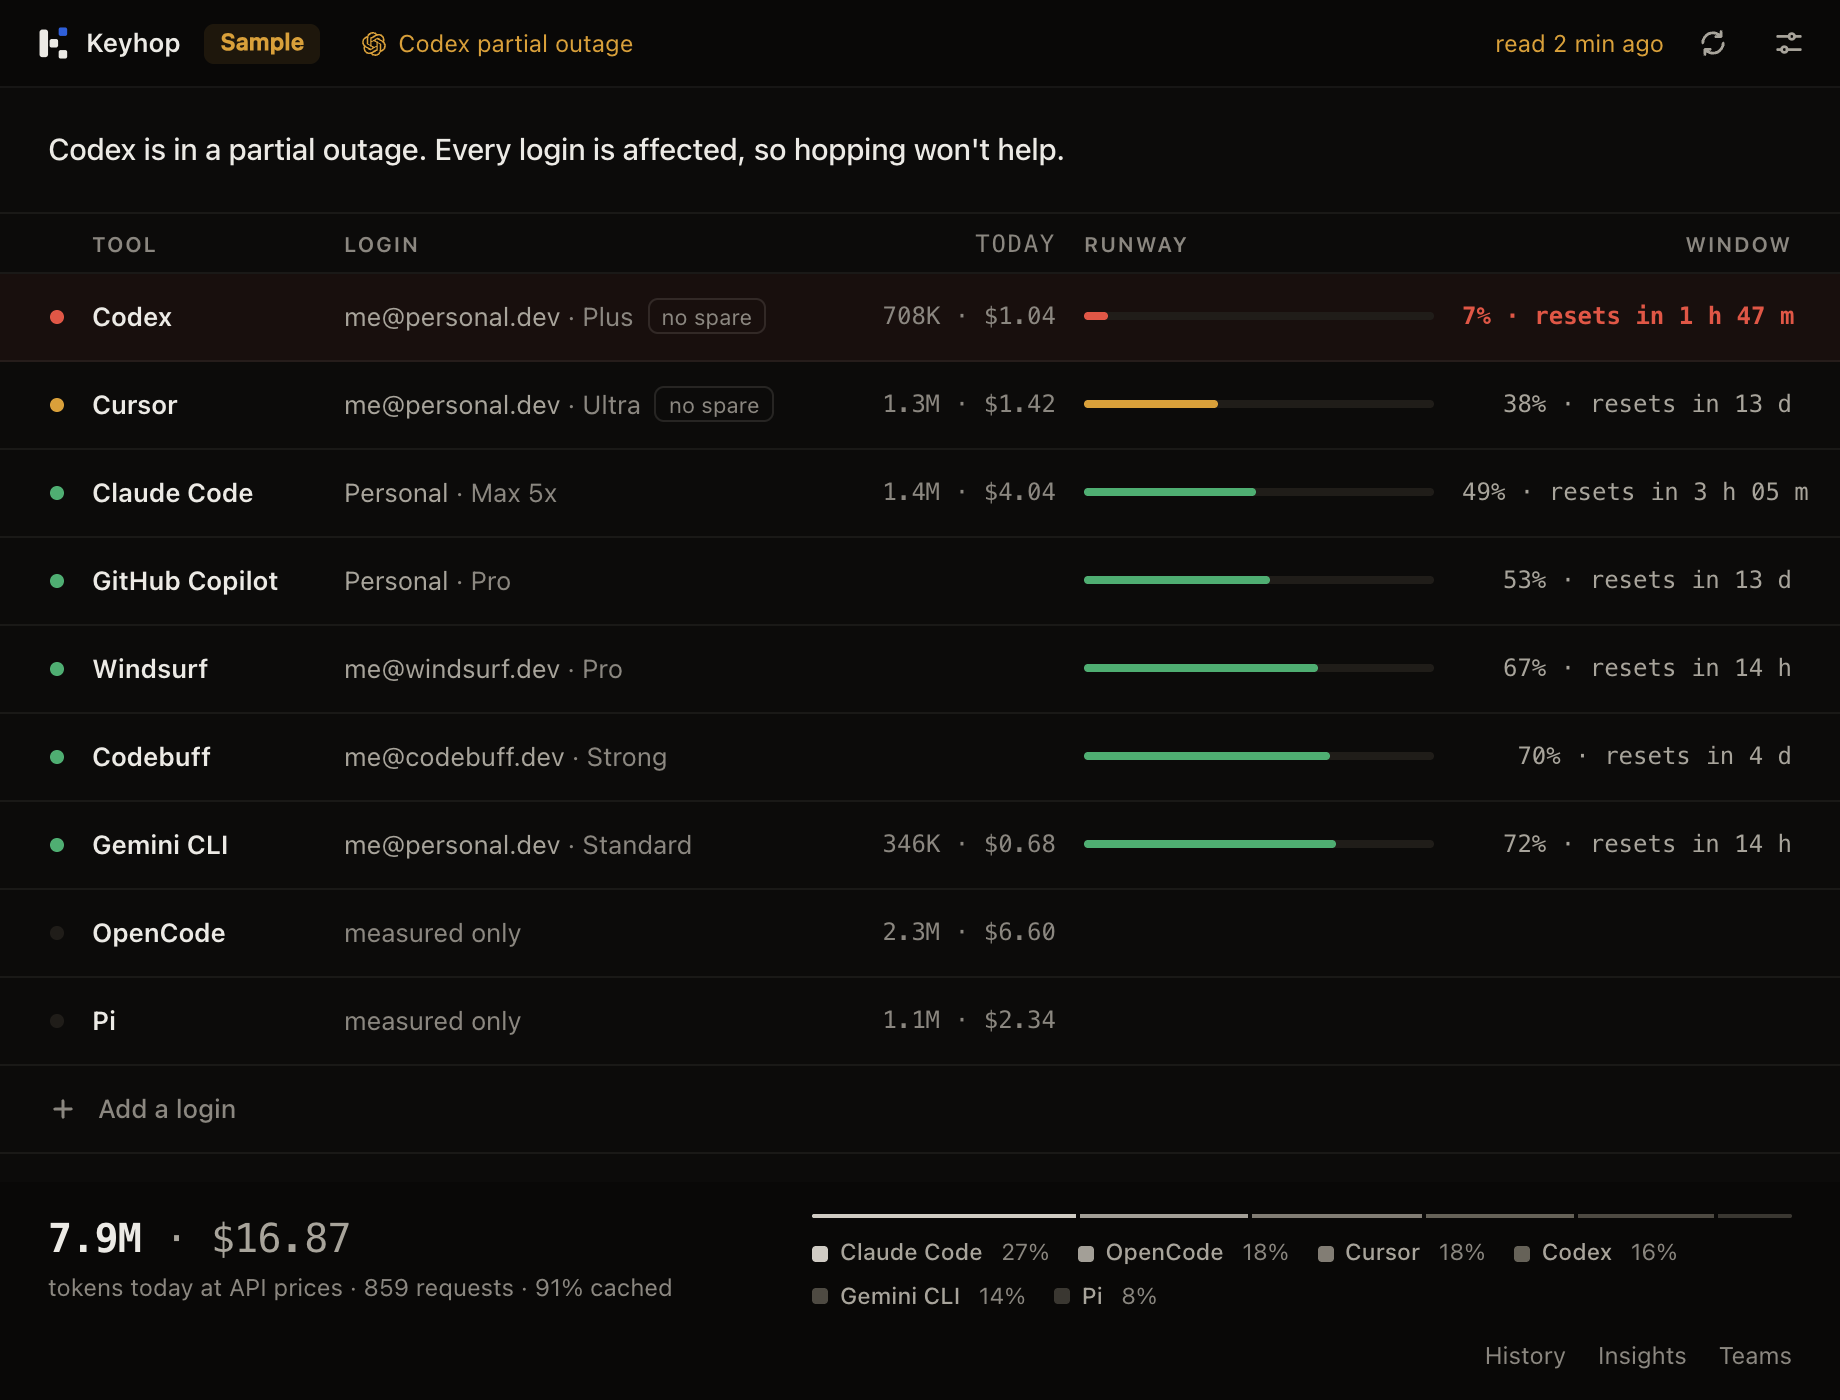
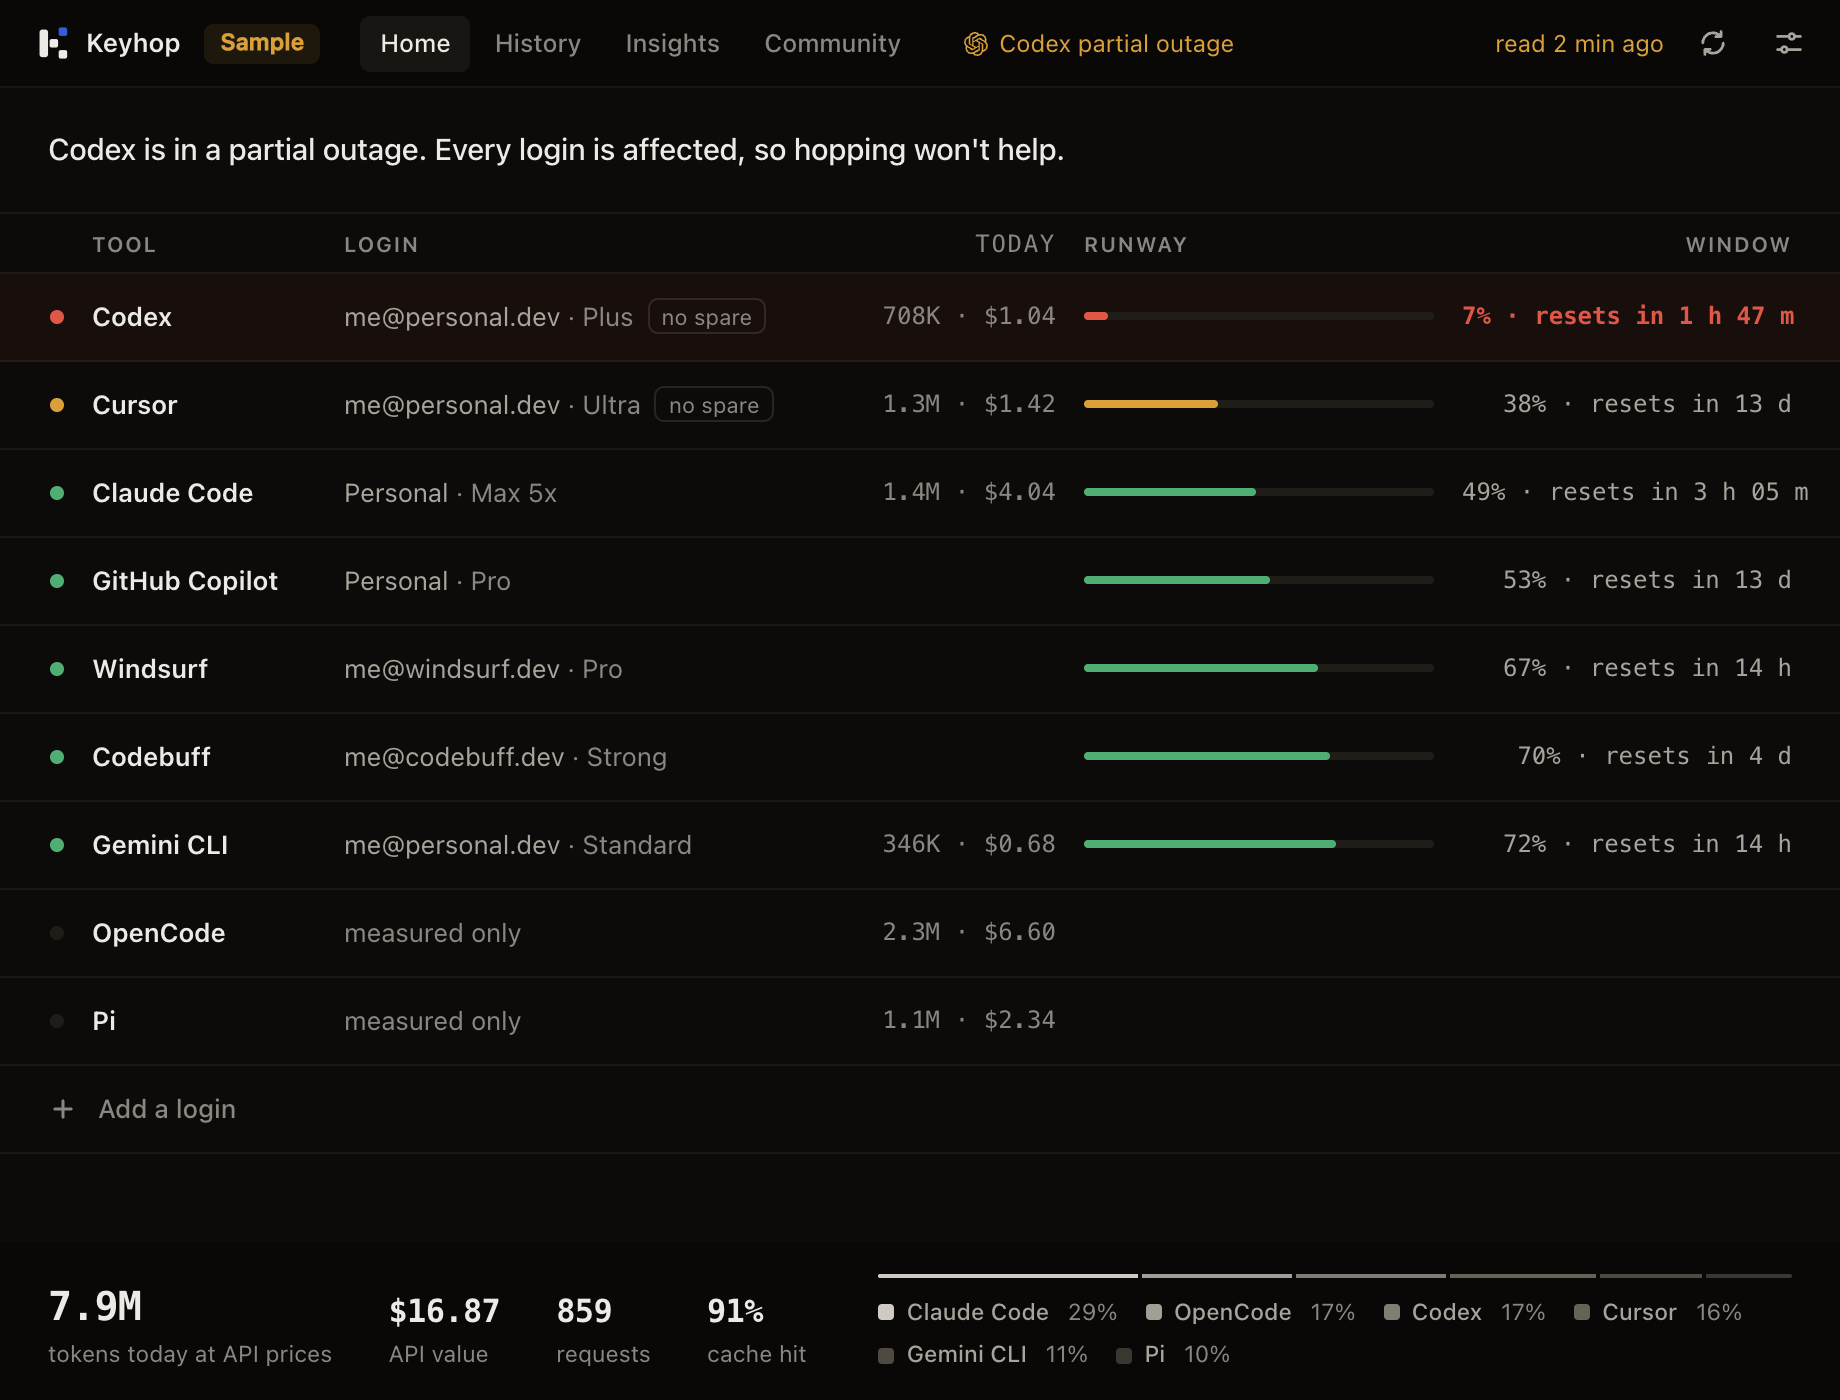
Put the views in the title bar and the day on a KPI strip
The window read as a widget: one list, its ways out hidden in footer
links. The title bar now carries the views the way an app's does (Home,
History, Insights, Community, each opening on the section last seen
there), and the footer links go. Today's sentence becomes four figures
with names: tokens, API value, requests, cache hit, beside the share
bar. Narrow windows give up the plan and the read time before they give
up the no-spare flag or the views.

diff --git a/Sources/Keyhop/Dashboard/Page/DashboardStyles.swift b/Sources/Keyhop/Dashboard/Page/DashboardStyles.swift
@@ -72,6 +72,15 @@ button, a, input, select, summary { touch-action: manipulation; -webkit-tap-high
 /* The mark, bare on the chrome: paper K, the hopped arm in the one blue. */
 .kmark { width: 17px; height: 17px; color: var(--fg); flex: none; display: block; }
 .titlebar .right { margin-left: auto; display: flex; align-items: center; gap: 10px; }
+/* The views, always on in the title bar; quiet text, the current one held on a wash. */
+.topnav { display: flex; align-items: center; gap: 2px; margin-left: 8px; }
+.topnav button {
+  height: 28px; padding: 0 10px; border: 0; border-radius: 5px;
+  background: none; color: var(--fg3); font: 500 12.5px var(--sans); cursor: pointer;
+  transition: background .15s ease-out, color .15s ease-out;
+}
+.topnav button:hover { color: var(--fg); background: var(--g2); }
+.topnav button[aria-current="page"] { color: var(--fg); background: var(--g2); }
 .readtime { color: var(--fg3); font-size: 12px; font-variant-numeric: tabular-nums; white-space: nowrap; }
 .readtime.stale { color: var(--low); }
 .iconbtn {
@@ -175,20 +184,18 @@ button, a, input, select, summary { touch-action: manipulation; -webkit-tap-high
 .core .row.idle .left, .core .row.idle .login { color: var(--fg3); }
 .core .row .pulse i { background: var(--fg3); }
 
-/* Today: the same grid as the rows, a step below the work surface. */
+/* Today: the day's figures as one instrument strip, a step below the work surface. */
 .core .today {
-  display: grid;
-  grid-template-columns: 8px 112px 220px minmax(0, 1fr) 190px;
-  gap: 6px 14px; align-items: end;
+  display: flex; flex-wrap: wrap; gap: 14px 36px; align-items: flex-end;
   margin-top: auto;
   padding: 16px 24px 14px;
   background: var(--chrome);
 }
-.core .figure { grid-column: 1 / 4; align-self: start; min-width: 0; }
-.core .figure .num { font: 600 20px/1.2 var(--mono); font-variant-numeric: tabular-nums; letter-spacing: -.02em; }
-.core .figure .num .val { color: var(--fg2); font-weight: 500; }
-.core .figure .sub { margin-top: 4px; color: var(--fg3); font-size: 12px; }
-.core .shares { grid-column: 4 / 6; min-width: 0; }
+.core .kpis { display: flex; gap: 28px; align-items: flex-end; min-width: 0; }
+.kpi .kpi-v { font: 600 16px/1.2 var(--mono); font-variant-numeric: tabular-nums; letter-spacing: -.02em; white-space: nowrap; }
+.kpi.lead .kpi-v { font-size: 20px; }
+.kpi .kpi-l { margin-top: 4px; color: var(--fg3); font-size: 11.5px; white-space: nowrap; }
+.core .shares { flex: 1; min-width: 260px; }
 .sharebar { display: flex; gap: 2px; height: 2px; border-radius: 99px; overflow: hidden; }
 .sharebar i { height: 100%; }
 .sharebar i:nth-child(1), .sharekey .ki:nth-child(1) i { background: #cfcbc3; }
@@ -212,9 +219,6 @@ button, a, input, select, summary { touch-action: manipulation; -webkit-tap-high
 .core-add .list > .row { padding: 14px 24px; }
 .core-add .list { border-bottom: 1px solid var(--line); }
 
-.core .links { grid-column: 1 / 6; display: flex; gap: 16px; justify-content: flex-end; margin-top: 6px; }
-.core .links a { color: var(--fg3); font-size: 12px; text-decoration: none; transition: color .15s ease-out; }
-.core .links a:hover { color: var(--fg); }
 .setup-mark { flex: none; width: 24px; height: 24px; display: grid; place-items: center; color: var(--fg2); }
 .setup-mark .mark { width: 15px; height: 15px; }
 
@@ -536,6 +540,9 @@ svg.heat { display: block; }
     grid-template-columns: 8px 112px minmax(0, 1fr) 175px 165px;
   }
   .colhead .tdy, .core .tdy { display: none; }
+  /* The login keeps its name and its no-spare flag; the plan yields first. */
+  .core .login .plan { display: none; }
+  .readtime { display: none; }
 }
 @media (max-width: 640px) {
   .core .row {
@@ -548,10 +555,12 @@ svg.heat { display: block; }
   .core .left .rw { display: none; }
   .core .row .runway { align-self: center; }
   .verdict { flex-wrap: wrap; }
-  .core .today { grid-template-columns: 1fr; }
-  .core .figure, .core .shares, .core .links { grid-column: 1; }
-  .core .links { justify-content: flex-start; }
+  .core .kpis { flex-wrap: wrap; gap: 14px 24px; }
   .readtime { display: none; }
+  /* The word yields to the views; the K mark still names the app. */
+  .app { font-size: 0; gap: 0; }
+  .topnav { margin-left: 2px; }
+  .topnav button { padding: 0 8px; font-size: 12px; }
 }
 @media (max-width: 820px) {
   body { overflow: auto; }

diff --git a/Sources/Keyhop/Dashboard/Page/DashboardScriptHome.swift b/Sources/Keyhop/Dashboard/Page/DashboardScriptHome.swift
@@ -172,17 +172,19 @@ extension DashboardPage {
     return { text: `Nothing runs out soon. <span class="detail">Next concern: ${concern}</span>`, button: "" };
   }
 
-  // Today's figure comes from the status (always there); the cache share and the per-tool split
+  // Today's figures come from the status (always there); the cache share and the per-tool split
   // fill in once today's usage is read.
   function todayStrip() {
     const today = data.state.status.today || { tokens: 0, cost: 0, requests: 0 };
     const usage = data.usage["today:all"];
     const t = usage?.total;
     const inputSide = t ? t.input + t.cacheRead + t.cacheWrite + (t.cacheWrite1h || 0) : 0;
-    const cached = inputSide ? ` · ${Math.round((t.cacheRead / inputSide) * 100)}% cached` : "";
-    const figure = `<div class="figure">
-      <div class="num"><span data-count="${today.tokens}" data-count-key="core:tokens" data-format="tokens" data-count-intro>${fmt.tokens(today.tokens)}</span> <span class="val">· ${fmt.usd(today.cost)}</span></div>
-      <div class="sub">tokens today at API prices · ${fmt.count(today.requests)} requests${cached}</div>
+    const cached = inputSide ? Math.round((t.cacheRead / inputSide) * 100) : null;
+    const figure = `<div class="kpis">
+      <div class="kpi lead"><div class="kpi-v num"><span data-count="${today.tokens}" data-count-key="core:tokens" data-format="tokens" data-count-intro>${fmt.tokens(today.tokens)}</span></div><div class="kpi-l">tokens today at API prices</div></div>
+      <div class="kpi"><div class="kpi-v">${fmt.usd(today.cost)}</div><div class="kpi-l">API value</div></div>
+      <div class="kpi"><div class="kpi-v">${fmt.count(today.requests)}</div><div class="kpi-l">requests</div></div>
+      ${cached == null ? "" : `<div class="kpi"><div class="kpi-v">${cached}%</div><div class="kpi-l">cache hit</div></div>`}
     </div>`;
     const tools = (usage?.tools || []).filter((tool) => tool.figures.tokens > 0).sort((a, b) => b.figures.tokens - a.figures.tokens);
     const sum = tools.reduce((n, tool) => n + tool.figures.tokens, 0);
@@ -197,13 +199,7 @@ extension DashboardPage {
         <div class="sharekey">${key}</div>
       </div>`;
     }
-    const cloudOn = !isStatic && !!data.state?.cloud?.available;
-    const links = [
-      `<a href="#usage" data-action="goto" data-section="usage">History</a>`,
-      `<a href="#coach" data-action="goto" data-section="coach">Insights</a>`,
-      cloudOn ? `<a href="#teams" data-action="goto" data-section="teams">Teams</a>` : "",
-    ].filter(Boolean).join("");
-    return `<section class="today">${figure}${shares}<nav class="links" aria-label="More">${links}</nav></section>`;
+    return `<section class="today">${figure}${shares}</section>`;
   }
 
   // Where a new login comes in: a quiet fold under the rows with the same add flow Limits has.

diff --git a/e2e/window/window.e2e.ts b/e2e/window/window.e2e.ts
@@ -39,15 +39,18 @@ test('rows carry no controls; the verdict holds the one hop', async ({ app, brow
   expect(controls?.hops ?? 9).toBeLessThan(2);
 });
 
-test('today sums the day in figures and links the demoted views', async ({ app, screen, browser }) => {
+test('today sums the day in figures and the title bar holds the views', async ({ app, screen, browser }) => {
   await openWindow(app, 'home');
   await expect(browser.locator('.core .today .num')).toBeVisible();
   await expect(screen.getByText('tokens today at API prices', { exact: false })).toBeVisible();
   await expect(screen.getByText('requests', { exact: false }).first()).toBeVisible();
   // The share of the day, one bar and its key, tool by tool.
   await expect.poll(() => browser.evaluate(() => document.querySelectorAll('.core .sharebar i').length)).toBeGreaterThan(2);
-  await browser.locator('.core .links a[data-section="usage"]').tap();
+  // The views live in the title bar, the way an app's do, and remember where they were.
+  await expect(browser.locator('#topnav [data-group="home"]')).toHaveAttribute('aria-current', 'page');
+  await browser.locator('#topnav [data-group="history"]').tap();
   await expect(screen.getByRole('heading', 'History', { level: 1 })).toBeVisible();
+  await expect(browser.locator('#topnav [data-group="history"]')).toHaveAttribute('aria-current', 'page');
 });
 
 test('an old link to overview opens the core, and accounts opens limits', async ({ app, screen, browser }) => {

diff --git a/Sources/Keyhop/Dashboard/Page/DashboardScriptChrome.swift b/Sources/Keyhop/Dashboard/Page/DashboardScriptChrome.swift
@@ -183,9 +183,18 @@ extension DashboardPage {
     if (toolbar.dataset.drawn !== controls) { toolbar.innerHTML = controls; toolbar.dataset.drawn = controls; }
   }
 
-  // The title bar: the mode, a word when a tool's service is in trouble, the read time, refresh.
+  // The title bar: the mode, the views, a word when a tool's service is in trouble, the read
+  // time, refresh. The views sit here the way an app's do: always on, quiet until current.
   function renderChrome() {
     const state = data.state;
+    const nav = $("#topnav");
+    if (nav) {
+      const groups = GROUPS.filter((group) => group.id !== "settings" && group.sections.some(sectionShown));
+      const current = groupOf(ui.section).id;
+      const html = groups.map((group) =>
+        `<button type="button" data-action="goto-group" data-group="${group.id}" aria-current="${current === group.id ? "page" : "false"}">${group.id === "home" ? "Home" : esc(group.title)}</button>`).join("");
+      if (nav.dataset.drawn !== html) { nav.innerHTML = html; nav.dataset.drawn = html; }
+    }
     const mode = $("#mode");
     if (mode) {
       mode.innerHTML = isStatic ? `<span class="badge">Saved</span>` : state?.mode === "sample" ? `<span class="badge sample">Sample</span>` : "";

diff --git a/Sources/Keyhop/Dashboard/Page/DashboardScriptActions.swift b/Sources/Keyhop/Dashboard/Page/DashboardScriptActions.swift
@@ -111,6 +111,15 @@ extension DashboardPage {
     const id = el.dataset.id;
     switch (el.dataset.action) {
       case "goto": go(el.dataset.section); break;
+      case "goto-group": {
+        // A view opens on the section last seen there, the way its tabs remember it.
+        const group = GROUPS.find((g) => g.id === el.dataset.group);
+        const last = group && ui.lastIn[group.id];
+        go(!group ? "home"
+          : last && group.sections.includes(last) && sectionShown(last) ? last
+          : group.sections.find(sectionShown) || group.sections[0]);
+        break;
+      }
       case "section-retry": data.coachError = data.plansError = null; render(); await loadSection(); render(); break;
       case "quota-tool": ui.quotaTool = el.dataset.value; transition(render); break;
       case "quota-hours": ui.quotaHours = +el.dataset.value; render(); break;

diff --git a/Sources/Keyhop/Dashboard/Page/DashboardStylesPages.swift b/Sources/Keyhop/Dashboard/Page/DashboardStylesPages.swift
@@ -5,7 +5,7 @@ import Foundation
 extension DashboardPage {
     static let stylesPages = ##"""
 /* Chrome extras: the outage chip in the titlebar, and the boot skeleton's spacing. */
-.top-chip { display: inline-flex; align-items: center; gap: 6px; height: 24px; padding: 0 9px; border-radius: 5px; font-size: 12px; text-decoration: none; white-space: nowrap; }
+.top-chip { display: inline-flex; align-items: center; gap: 6px; height: 24px; padding: 0 9px; border-radius: 5px; font-size: 12px; text-decoration: none; white-space: nowrap; min-width: 0; overflow: hidden; text-overflow: ellipsis; }
 .top-chip .mark { width: 12px; height: 12px; }
 .top-chip.warn { color: var(--low); background: var(--low-wash); }
 .top-chip.warn:hover { background: color-mix(in srgb, var(--low) 14%, transparent); }

diff --git a/Sources/Keyhop/Dashboard/Page/DashboardShell.swift b/Sources/Keyhop/Dashboard/Page/DashboardShell.swift
@@ -15,6 +15,7 @@ extension DashboardPage {
   <header class="titlebar">
     <span class="app"><svg class="kmark" viewBox="0 0 24 24" aria-hidden="true"><rect x="2.5" y="2.5" width="6" height="19.5" rx="2" fill="currentColor"/><rect x="9.6" y="9.2" width="6" height="6" rx="1.5" fill="currentColor"/><rect x="16" y="1" width="6" height="6" rx="1.5" fill="#2f5fd9"/><rect x="16" y="17" width="6" height="6" rx="1.5" fill="currentColor"/></svg>Keyhop</span>
     <span id="mode" hidden></span>
+    <nav class="topnav" id="topnav" aria-label="Views"></nav>
     <a class="top-chip warn" id="status-outage" href="#" target="_blank" rel="noopener" hidden></a>
     <span class="right">
       <span class="readtime" id="readtime"></span>

diff --git a/AGENTS.md b/AGENTS.md
@@ -12,6 +12,6 @@
 - Jev is the Typesafe screen review in CI. Its judgements are reported and do not fail the build.
 - A linked account has one lifetime pet, computed from synced daily totals and not stored. Stages are Speck, Hatch (1M tokens), Frame (50M), Bulk (500M), Mass (5B), and Monument (25B). The dominant measured tool sets the markings, the streak sets the pose, and commits set the build. A public profile shares it at `/u/<login>/pet.svg`. The same shapes are painted on the profile, the team page, Overview, the Mac menu, and the iOS season screen. The status icon still shows limits.
 - The Mac window is one HTML page served by a loopback server and assembled from `Sources/Keyhop/Dashboard/Page/` (stylesheet, shell, one script file per section); it builds and runs on Linux, so `keyhop dashboard --sample` feeds the window e2e suite and `checks/run.mjs --app` anywhere. The window and keyhop.app share the Keyhop 2.0 world: one warm charcoal ramp, color is state only, paper-on-ink actions, brand blue only in the K mark, the focus ring and the selection; every overlay tint reads from the `--on` ink hue, never a literal white.
-- The window opens on one core screen (Home): the verdict sentence with the one hop button, every login ranked by runway, and today's figure. Everything else is a demoted view behind quiet links, mapped by `GROUPS` in the page script: History (Usage, Limits), Insights (Coach, Plans, Budgets), Community (Leaderboard, Season, Teams, Profile) and Settings; a view with several sections shows them as tabs and opens on the one last seen. Old links still land (`#overview` → home, `#accounts` → limits). Limits keeps Accounts folded in and the pooled forecast from `GET /api/quota` (also `keyhop forecast` and MCP `keyhop_forecast`, built by `QuotaReport` in `Core/Quota.swift` from the limit samples kept 8 days).
+- The window opens on one core screen (Home): the verdict sentence with the one hop button, every login ranked by runway (with its plan and today's figures), and today's figures as a KPI strip. Everything else is a demoted view reached from the title bar's always-on views (Home, History, Insights, Community), mapped by `GROUPS` in the page script: History (Usage, Limits), Insights (Coach, Plans, Budgets), Community (Leaderboard, Season, Teams, Profile) and Settings; a view with several sections shows them as tabs and opens on the one last seen. Old links still land (`#overview` → home, `#accounts` → limits). Limits keeps Accounts folded in and the pooled forecast from `GET /api/quota` (also `keyhop forecast` and MCP `keyhop_forecast`, built by `QuotaReport` in `Core/Quota.swift` from the limit samples kept 8 days).
 - Plans (`keyhop plans`, window section) prices each login's plan at list against the month's API value and the week's window peaks from the limit samples; Coach (`keyhop coach optimize|compare|yield`, window section) reads cache hit, premium-model share, the heaviest sessions, this month against last, and tokens and API value per commit and per merge from the counted repositories. Both are local; nothing is sent. Teams can post a daily digest to a Slack or Discord incoming webhook (team page, owner only, the hourly cron at the chosen UTC hour); `/u/<login>/wrapped` wraps a year from the daily totals.
 - `native/` is a GPUI Kit (Rust) spike of the Mac window, a client of the same local API (`keyhop dashboard --no-open --json`) the HTML window reads; the Swift core stays the only code that touches logins and usage. `cargo test` and `cargo run -- --sample` in `native/`. The nightly workflow (on main) builds `v2` for macOS on every push to `v2` and bundles `keyhop-native` beside Keyhop.
